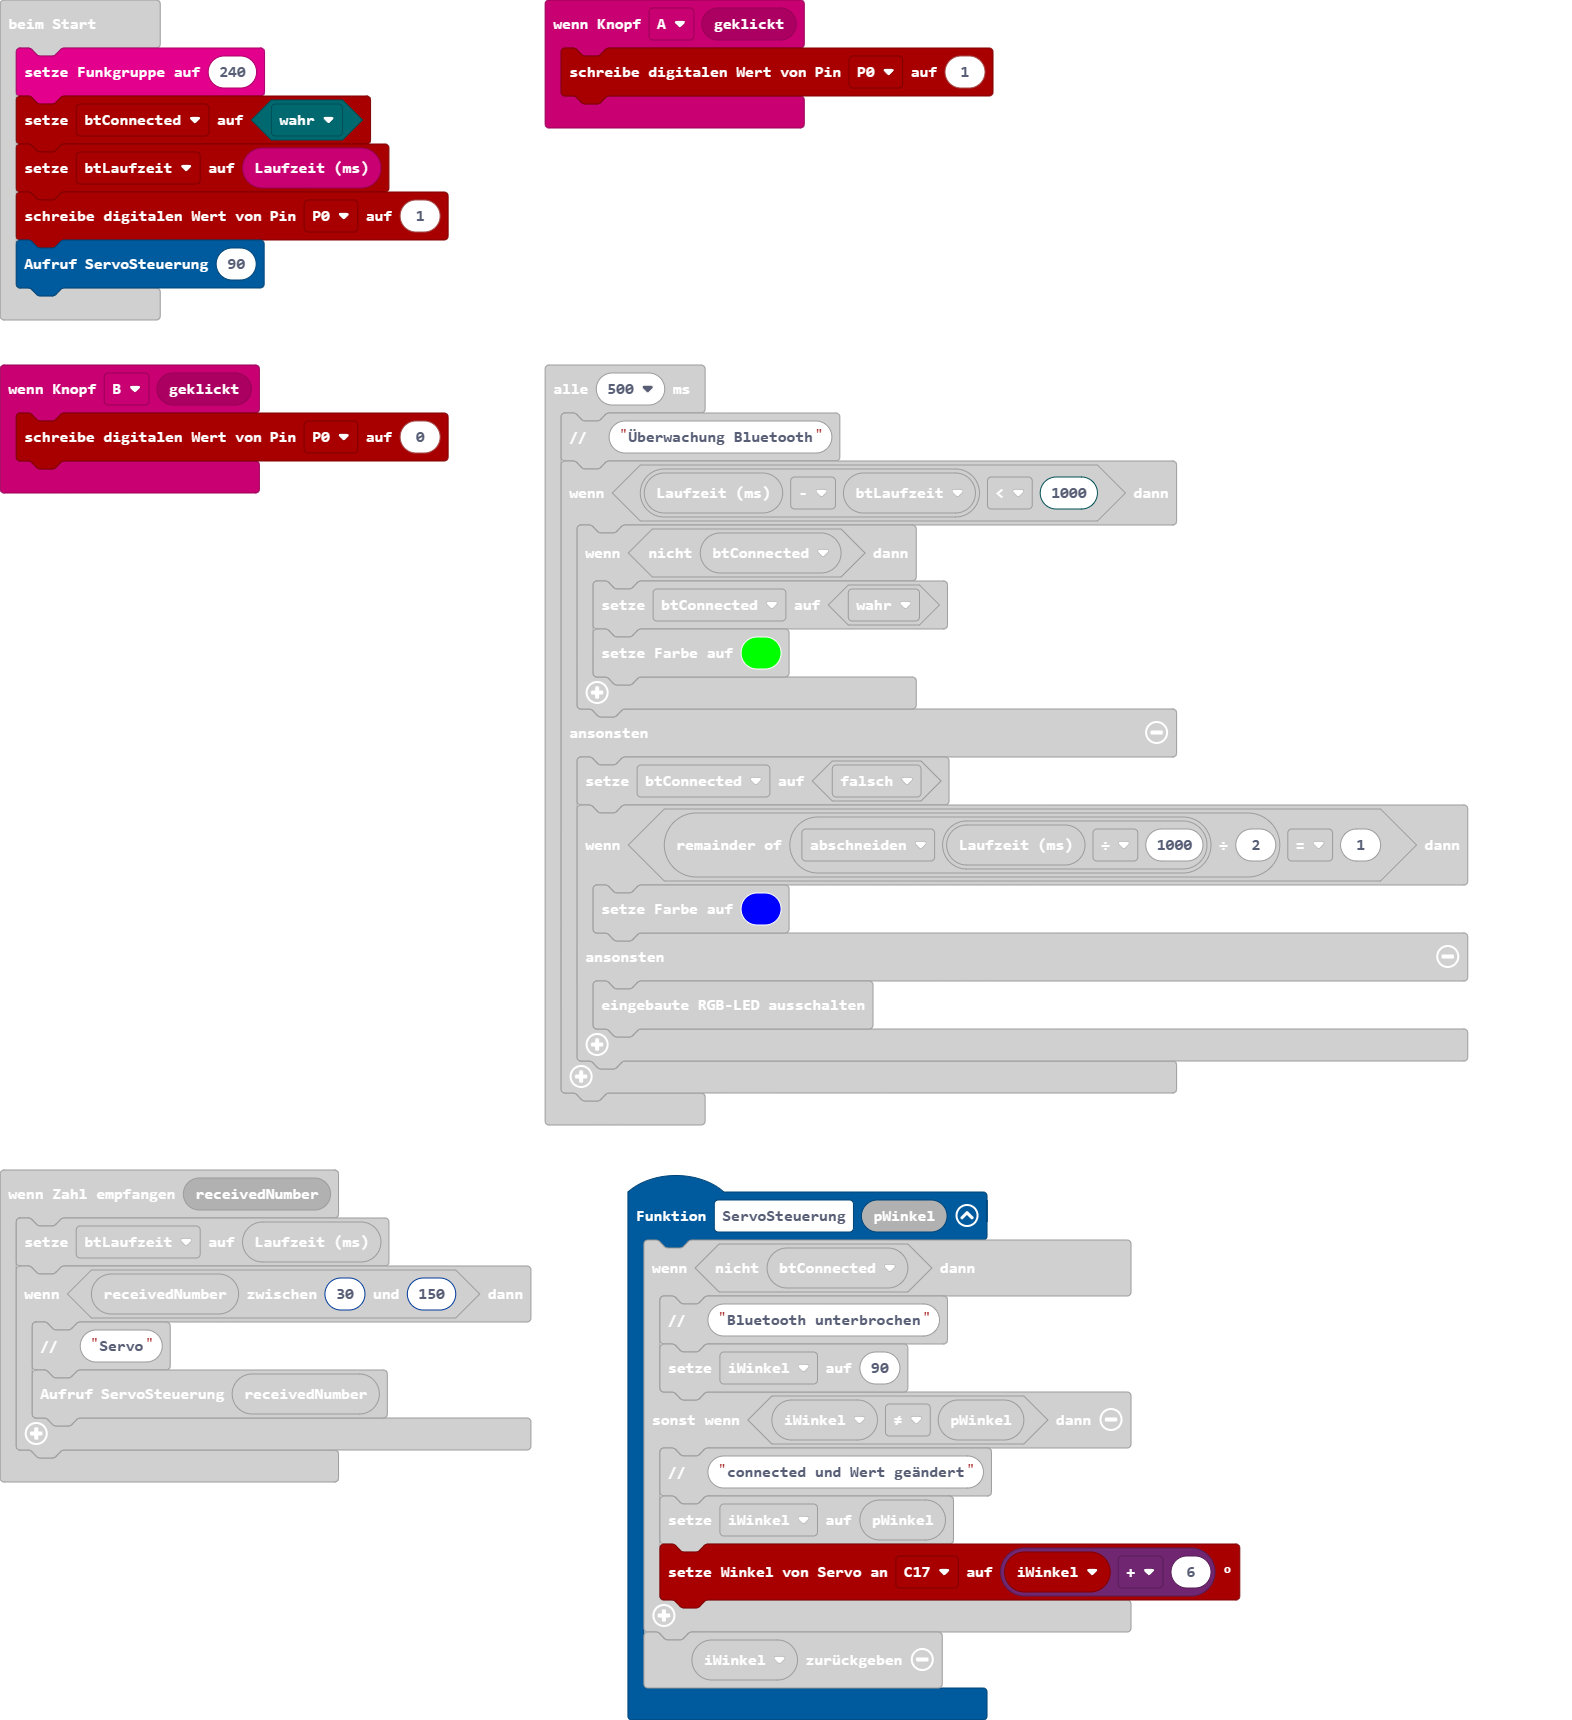
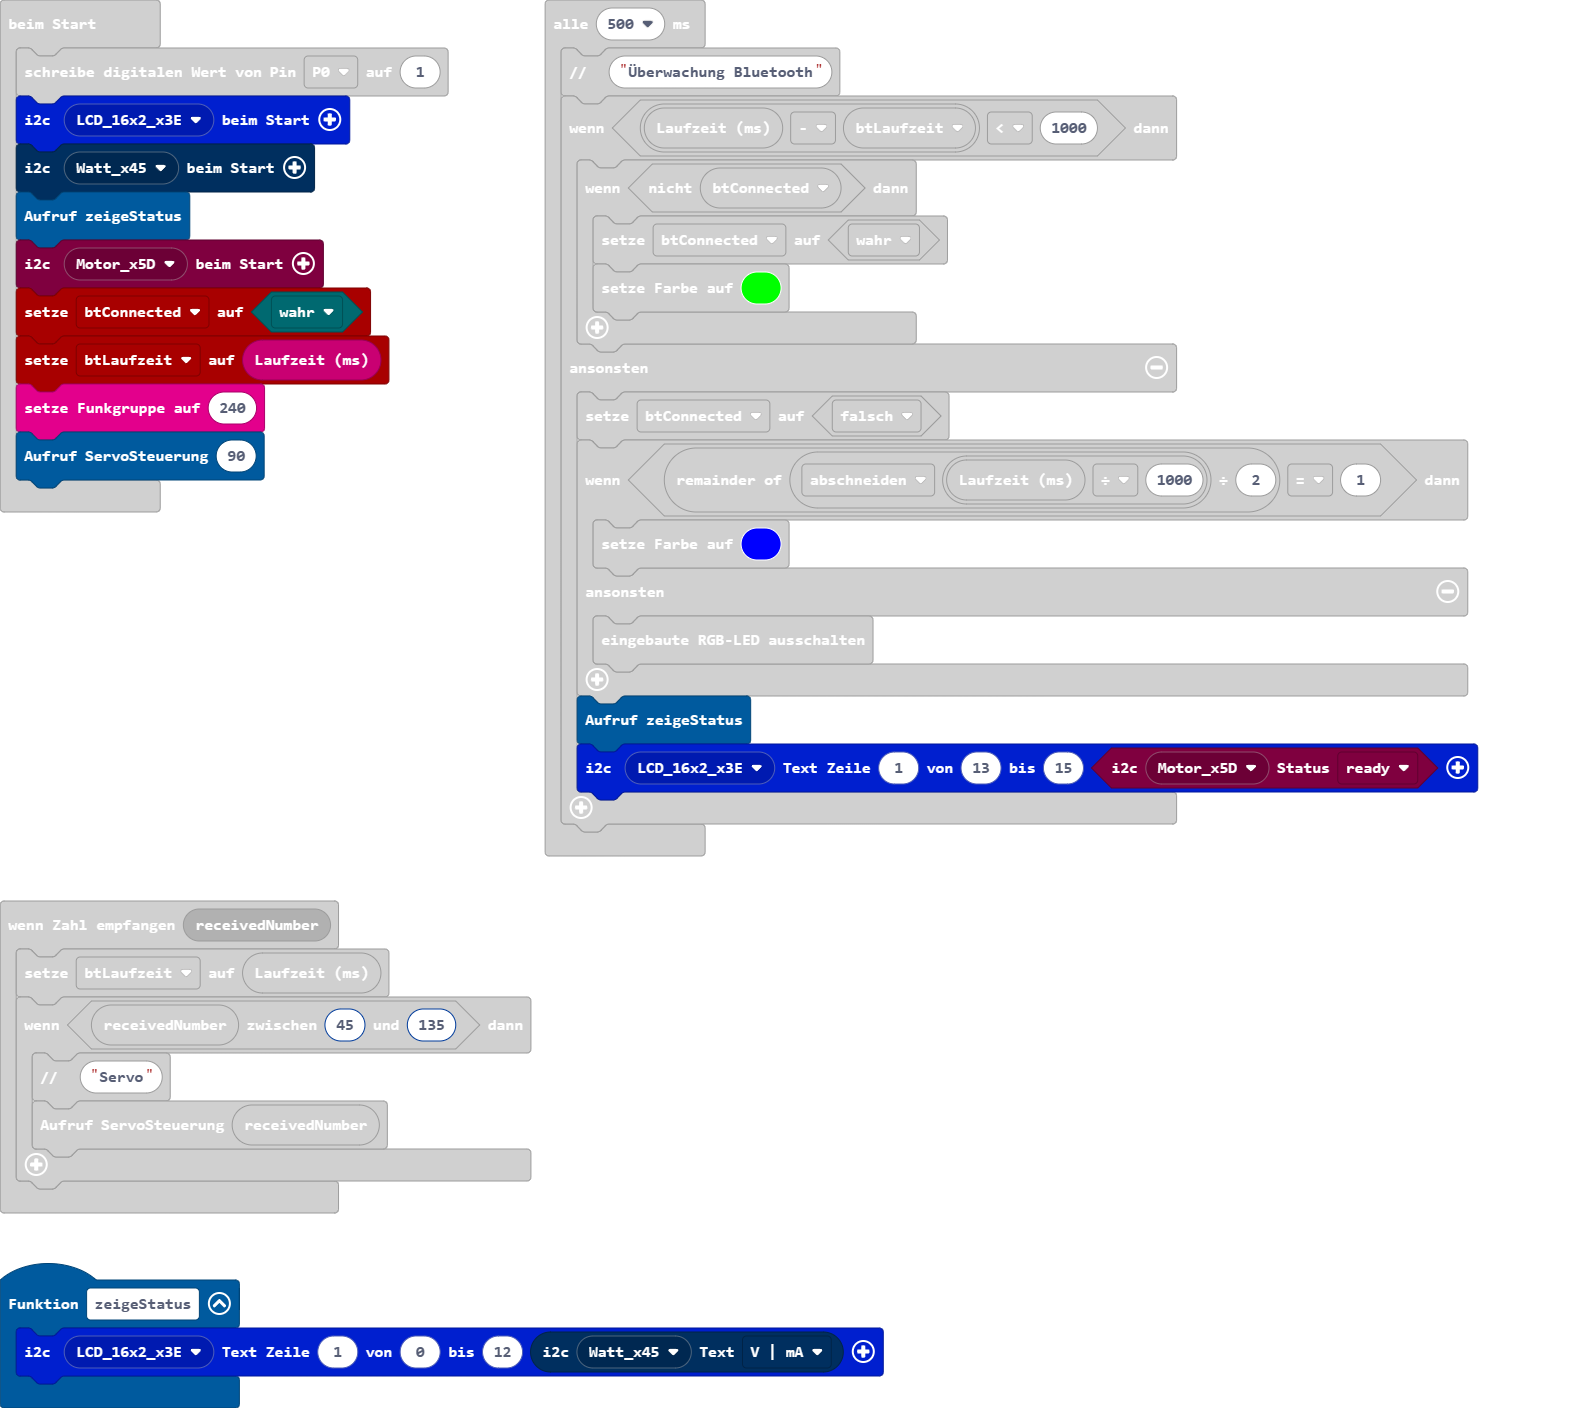
Aktualisiere pxt.json, main.blocks, main.ts

diff --git a/main.ts b/main.ts
@@ -1,6 +1,6 @@
 radio.onReceivedNumber(function (receivedNumber) {
     btLaufzeit = input.runningTime()
-    if (bit.between(receivedNumber, 30, 150)) {
+    if (bit.between(receivedNumber, 45, 135)) {
         bit.comment("Servo")
         ServoSteuerung(receivedNumber)
     }
@@ -8,6 +8,9 @@ radio.onReceivedNumber(function (receivedNumber) {
 input.onButtonEvent(Button.A, input.buttonEventClick(), function () {
     pins.digitalWritePin(DigitalPin.P0, 1)
 })
+function zeigeStatus () {
+    lcd16x2rgb.writeText(lcd16x2rgb.lcd16x2_eADDR(lcd16x2rgb.eADDR_LCD.LCD_16x2_x3E), 1, 0, 12, wattmeter.statuszeile(wattmeter.wattmeter_eADDR(wattmeter.eADDR.Watt_x45), wattmeter.eStatuszeile.v_mA))
+}
 input.onButtonEvent(Button.B, input.buttonEventClick(), function () {
     pins.digitalWritePin(DigitalPin.P0, 0)
 })
@@ -25,10 +28,14 @@ function ServoSteuerung (pWinkel: number) {
 let iWinkel = 0
 let btLaufzeit = 0
 let btConnected = false
-radio.setGroup(240)
+pins.digitalWritePin(DigitalPin.P0, 1)
+lcd16x2rgb.initLCD(lcd16x2rgb.lcd16x2_eADDR(lcd16x2rgb.eADDR_LCD.LCD_16x2_x3E))
+wattmeter.reset(wattmeter.wattmeter_eADDR(wattmeter.eADDR.Watt_x45))
+zeigeStatus()
+qwiicmotor.init(qwiicmotor.qwiicmotor_eADDR(qwiicmotor.eADDR.Motor_x5D))
 btConnected = true
 btLaufzeit = input.runningTime()
-pins.digitalWritePin(DigitalPin.P0, 1)
+radio.setGroup(240)
 ServoSteuerung(90)
 loops.everyInterval(500, function () {
     bit.comment("Überwachung Bluetooth")
@@ -44,5 +51,7 @@ loops.everyInterval(500, function () {
         } else {
             basic.turnRgbLedOff()
         }
+        zeigeStatus()
+        lcd16x2rgb.writeText(lcd16x2rgb.lcd16x2_eADDR(lcd16x2rgb.eADDR_LCD.LCD_16x2_x3E), 1, 13, 15, qwiicmotor.getStatus(qwiicmotor.qwiicmotor_eADDR(qwiicmotor.eADDR.Motor_x5D), qwiicmotor.eStatus.ready))
     }
 })
